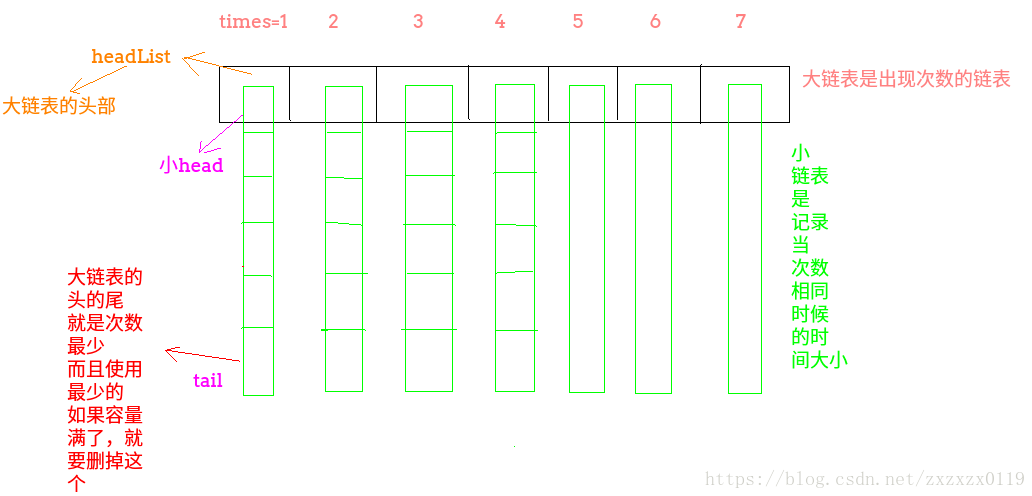
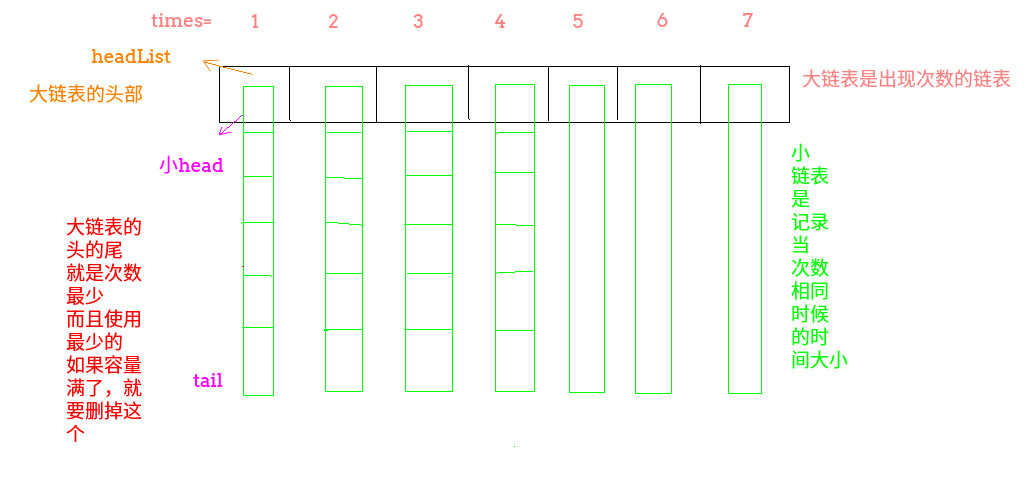
update

diff --git a/刷题/LeetCode/Data Structure/List/LeetCode - 460. LFU Cache(LFU缓存算法，二维链表解决).md b/刷题/LeetCode/Data Structure/List/LeetCode - 460. LFU Cache(LFU缓存算法，二维链表解决).md
@@ -10,7 +10,7 @@
 设计使用两个链表: 
 
  - **一个大链表表示键值对出现次数的链表**；
- - **小链表表示这条链表的次数都一样，但是由于我们的添加可以决定添加的顺序，可以达到在次数相同的情况下，先移除最近最少使用的键值对；**
+ - **小链表表示这条链表的次数都一样，但是由于我们的添加可以决定添加的顺序，可以达到在次数相同的情况下，先移除最近最少使用的键值对**；
 
 
 下面的代码中的方法: 
@@ -19,7 +19,10 @@
  - **`deleteNode()`**，大链表的结点(本身也是一个小链表)　中删除一个结点；
  - `LFU`结构中的`move()`方法，表示要当我操作了一个键值对，对应的次数增加，就需要调整结点的位置，`move()`方法就是从原来的小链表(大链表的结点)移动到一个新的小链表(也就是次数比原来次数`+1`)的新小链表；
  - `modifyHeadList()`表示的当我删除一个结点(也就是在旧的小链表中删除一个之后)有可能这个小链表本来只有这一个元素，所以要销毁这个小链表，为什么要写成`boolean`型的，因为等下在下面的代码中，在`move`的时候，要重新连接一个大链表的结点要知道`preList`，所以需要判断; 
-    ![这里写图片描述](https://img-blog.csdn.net/201808191504254?watermark/2/text/aHR0cHM6Ly9ibG9nLmNzZG4ubmV0L3p4enh6eDAxMTk=/font/5a6L5L2T/fontsize/400/fill/I0JBQkFCMA==/dissolve/70)
+
+![1554955859170](assets/1554955859170.png)
+
+两个链表示意图:
 
 ![这里写图片描述](images/460_s.png)
 
@@ -169,7 +172,6 @@ class LFUCache {
 
     /**
      * 解耦原来的链表  并放入到一个新的链表中
-     *
      * @param node        这个node
      * @param oldNodeList node 的原来属于的list
      */
@@ -220,7 +222,6 @@ class LFUCache {
     /**
      * 这个方法的调用时机是  把一个node从一个nodelist中删掉 ，然后判断是不是要不这个nodelist给删掉
      * 就是在delete之后， 要不要把整个小链表删掉
-     *
      * @param nodeList
      */
     private boolean modifyHeadList(NodeList nodeList) {

diff --git a/刷题/LeetCode/LeetCode Solution Index.md b/刷题/LeetCode/LeetCode Solution Index.md
@@ -466,7 +466,7 @@
 | 452 | | | |
 | 453 | | | |
 | 454 | | | |
-| 455 | | | |
+| 455 | [Assign Cookies](https://github.com/ZXZxin/ZXBlog/blob/master/%E5%88%B7%E9%A2%98/LeetCode/Greedy/LeetCode%20-%20455.%20Assign%20Cookies.md) | Greedy | Easy |
 | 456 | | | |
 | 457 | | | |
 | 458 | | | |
